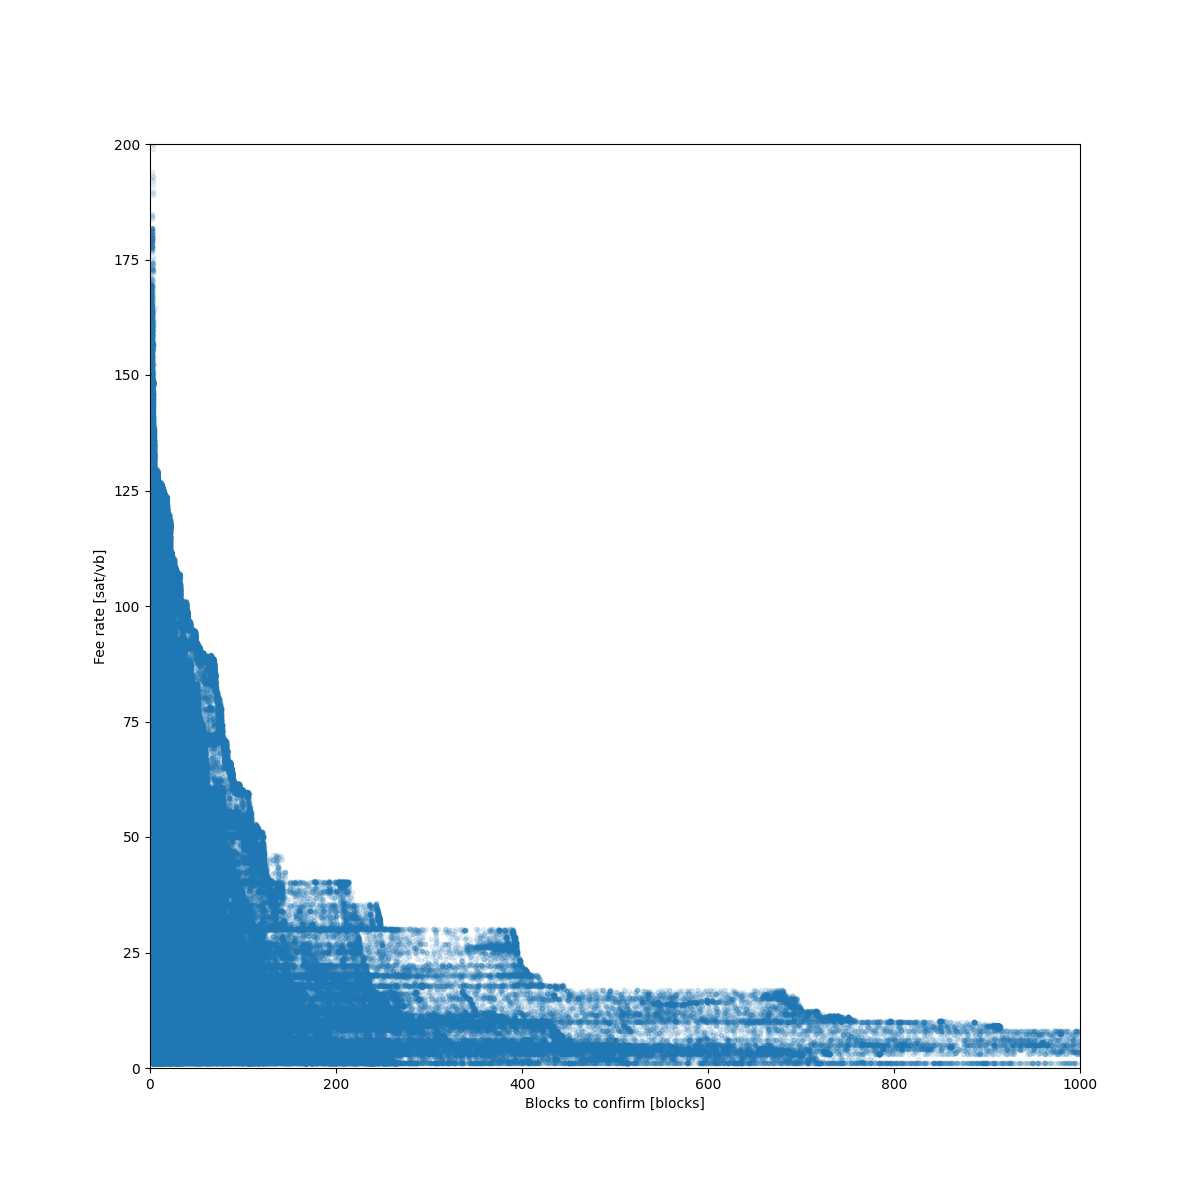
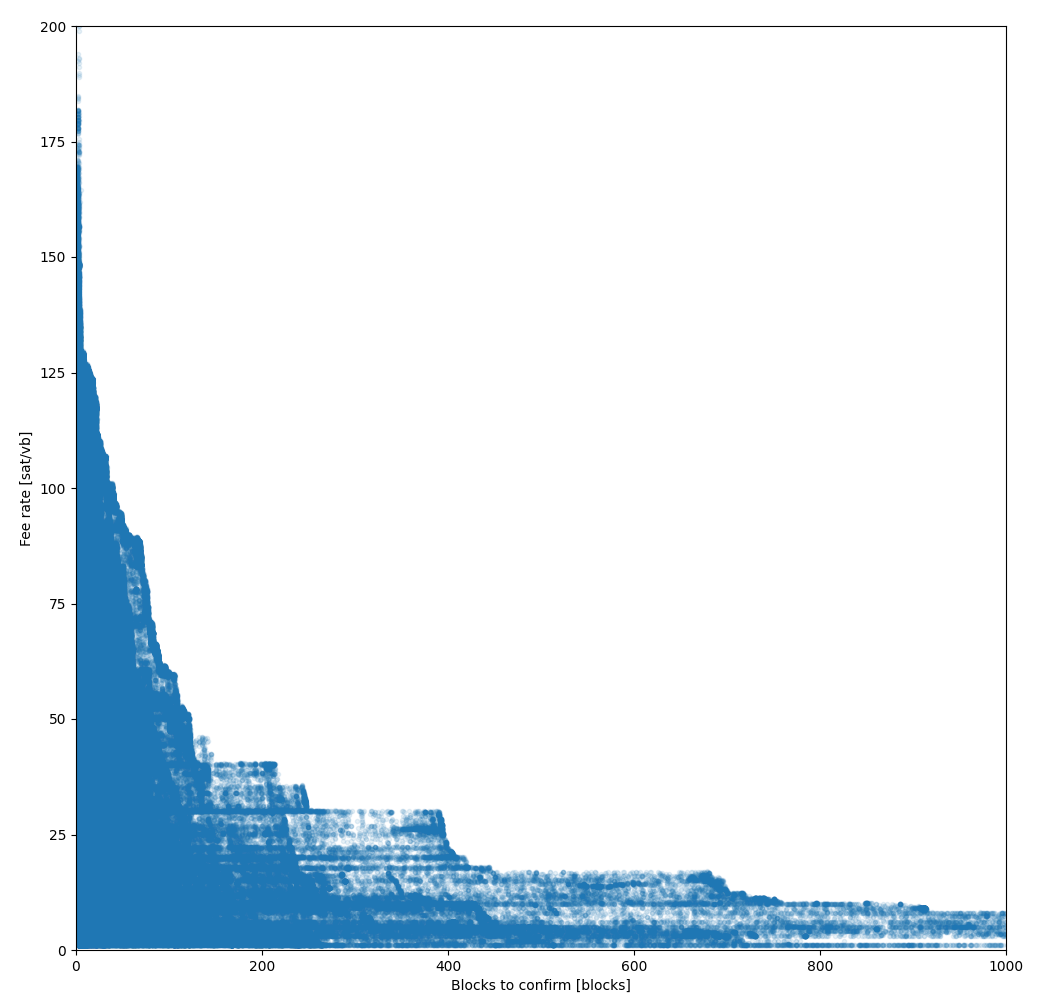
update

Changed region(s): [[0.0, 0.0621, 0.979, 0.994], [0.0306, 0.0, 0.0612, 0.0311]]

diff --git a/content/blog/2021/fee_estimation_for_light_clients_part_3.md b/content/blog/2021/fee_estimation_for_light_clients_part_3.md
@@ -21,10 +21,10 @@ This post is part 2 of 3 of a series. ([Part 1], [Part 2])
 
 ## The model
 
-The code building and training the model with [tensorflow] is available in [google colab notebook] (jupyter notebook); you can also download the file as plain python and run it locally. About 30 minutes are needed to train the model, but it heavily depends on the hardware available.
+The code building and training the model with [tensorflow] is available in [google colab notebook] (jupyter notebook); you can also download the file as plain python and run it locally. At least 1 hour is needed to train the full model, but it heavily depends on the hardware available.
 
 ![graph confirm_in blocks vs fee_rate](/images/20210125-091313-confirms_in-fee_rate.png)
-<div align="center">Tired to read and want a short interesting evidence? In the last month a ~50 sat/vbyte transaction never took more than a day to confirm and a ~5 sat/vbyte never took more than a week</div><br/>
+<div align="center">Do you want to choose the fee without a model? In the last 5 weeks a ~50 sat/vbyte transaction never took more than a day to confirm and a ~10 sat/vbyte never took more than a week</div><br/>
 
 As a reference, in the code we have a calculation of the bitcoin core `estimatesmartfee` MAE[^MAE] and drift[^drift].
 MAE is computed as `avg(abs(fee_rate - core_econ))` when `core_econ` is available (about 1.2M observations, sometime the value is not available when considered too old).
@@ -45,7 +45,7 @@ The dataset is splitted in training and test data with a 80/20 proportion. As th
 
 During the training the data is splitted again in 80/20 for training and validation respectively, validation is basically testing during training.
 
-During splitting dataset is converted from a pandas data frame to tensorflow dataset, decreasing training times.
+During splitting, the dataset is converted from a pandas data frame to tensorflow dataset, decreasing training times.
 
 #### Preprocessing
 
@@ -88,7 +88,7 @@ Non-trainable params comes from the normalization layer and are computed in the 
 + (64 input_values_weights + 1 bias) * (64 second layer neurons)
 + (64 input values weights + 1 bias)
 
-49*64+65*64+ = 7361
+49*64+65*64+65 = 7361
 ```
 
 Honestly, neural network parameters are mostly the one taken from this tensorflow [example], we even tried to [tune hyperparameters], however, we decided to follow this [advice]: *"The simplest way to prevent overfitting is to start with a small model:"*. We hope this work will attract other data scientists to this bitcoin problem, improving the model. We also think that a longer time for the data collection is needed to capture various situations.
@@ -135,9 +135,9 @@ Epoch 158/200
 
 Training is done in epochs, under every epoch all the training data is iterated and model parameters updated to minimize the loss function.
 
-The number `5617` represent the number of steps. Theoretically the whole training data should be processed at once and parameters updated accordingly, however in practice this is infeasible for example for memory resource, thus the training happens in batch. In our case we have `1,437,841` observations in the training set and our batch size is `256`, thus we have `1,437,841/256=5616.56` which by excess result in `5617` steps.
+The number `7559` represent the number of steps. Theoretically the whole training data should be processed at once and parameters updated accordingly, however in practice this is infeasible for example for memory resource, thus the training happens in batch. In our case we have `1,934,999` observations in the training set and our batch size is `256`, thus we have `1,437,841/256=7,558.58` which by excess result in `7559` steps.
 
-The `40s` is the time it takes to process the epoch on google colab (my threadripper cpu takes `20s`, but GPU or TPU could do better).
+The `~31s` is the time it takes to process the epoch on a threadripper CPU but GPU or TPU could do better.
 
 The value `loss` is the MSE on the training data while `val_loss` is the MSE value on the validation data. As far as we understand the separated validation data helps to detect the machine learning enemy, overfitting. Because in case of overfitting the value `loss` continue to improve (almost indefinitely) while `val_loss` start improving with the loss but a certain point diverge, indicating the network is memorizing the training data to improve `loss` but in doing so losing generalizing capabilities.
 
@@ -145,14 +145,14 @@ Our model doesn't look to suffer overfitting cause `loss` and `val_loss` doesn't
 
 ![train history](/images/20210125-091313-train-history.png)
 
-While we told the training to do 200 epochs, the training stopped at 198 because we added an `early_stop` call back with `20` as  `PATIENCE`, meaning that after 20 epoch and no improvement in `val_loss` the training is halted, saving time and potentially avoiding overfitting.
+While we told the training to do 200 epochs, the training stopped at 158 because we added an `early_stop` call back with `20` as  `PATIENCE`, meaning that after 20 epoch and no improvement in `val_loss` the training is halted, saving time and potentially avoiding overfitting.
 
 ## The prediction phase
 
 A [prediction test tool] is available on github. At the moment it uses a bitcoin core node to provide network data for simplicity, but it queries it only for the mempool and the last 6 blocks, so it's something that also a light-client could do.
 
 The following chart is probably the best visualization to evaluate the model, on the x axis there is the real fee rate while on the y axis there is the prediction, the more the points are centered on the bisection, the more the model is good.
-We can see the model is doing quite well, the MAE is 8 which is way lower than `estimatesmartfee`. However, there are big errors some times, in particular for prediction for low blocks target as shown by the orange points. Creating a model only for blocks target greater than 2 instead of simply remove some observations may be an option.
+We can see the model is doing quite well, the MAE is 8 which is way lower than `estimatesmartfee`. However, there are big errors some times, in particular for prediction for fast confirmation (`confirms_in=1 or confirms_in=2`) as shown by the orange points. Creating a model only for blocks target greater than 2 instead of simply remove some observations may be an option.
 
 ![prediction results](/images/20210125-091313-true-and-predictions.png)
 
@@ -168,23 +168,21 @@ This is just a starting point, there are many future improvements such as:
 
 * Build a separate model with full knowledge, thus for full, always-connected nodes could be interesting and improve network resource allocation with respect to current estimators.
 * Tensorflow is a huge dependency, and since it contains all the feature to build and train a model, most of the feature are not needed in the prediction phase. In fact tensorflow lite exists which is specifically created for embedded and mobile devices; the [prediction test tool] and the final integration in [bdk] should use it.
-* There are other fields that should be explored that could improve model predictions, such as transaction weight, time from last block and many others. Luckily the architecture of the logger allows the generation of the dataset from the raw logs very quickly. Also some fields like `confirms_in` are so important that the model could benefit from expansion during pre-processing with technique such as [hashed feature columns].
-* Bitcoin logger could be improved by a merge command to unify raw logs files, reducing redundancy and consequently disk occupation. Other than CSV the dataset could be created in multiple files in [TFRecord format] to allow more parallelism during training.
-* At the moment we are training the model on a threadripper CPU, training the code on GPU or even TPU will be needed to decrease training time, especially because input data will grow and capture more mempool situations.
+* Explore other fields to improve model predictions such as:
+  * A bucket array of the transactions in the last 6 blocks with known fee rates. This should in particular help estimations with almost empty mempool.
+  * Transaction weight
+  * Time from last block
+* Some fields are very important and could benefit from pre-processing expansion, for instance applying [hashed feature columns] to `confirms_in`.
+* Bitcoin logger could be improved by a merge command to unify raw logs files, reducing redundancy and consequently disk occupation.
+* The dataset could be created in multiple files to allow more parallelism and use less memory during training.
+* Saving the dataset in [TFRecord format] instead of CSV
+* At the moment we are training the model on a threadripper CPU, training the code on GPU or even TPU will be needed to decrease training time, especially because input data will grow.
 * The [prediction test tool] should estimate only using the p2p bitcoin network, without requiring a node. This work would be propedeutic for [bdk] integration
 * At the moment mempool buckets are multiple inputs `a*` as show in the model graph; since they are related, is it possible to merge them in one TensorArray?
 * Sometimes the model does not learn and [gets stuck]. It may depend on a particular configuration of the weight random initialization and the first derivative being zero for relu for negative number. If this is the case Leaky relu should solve the problem
 * There are issues regarding dead neurons (going to 0) or neurons with big weight, weight results should be monitored for this events, and also weight decay and L2 regularization should be explored.
 * Tune hyper-parameters technique should be re-tested.
-* Predictions should be monotonic decreasing for growing `confirms_in` parameter; for obvious reason it doesn't make sense that an higher fee rate will result in a higher confirmation time. Since this is not enforced anywhere in the model, situation like this could happen and should be avoided.
-```
-[2021-01-18T09:31:30Z INFO  estimate_ml_fee] Estimated fee to enter in 1 blocks is 47.151127 sat/vbyte
-[2021-01-18T09:31:30Z INFO  estimate_ml_fee] Estimated fee to enter in 6 blocks is 1.0932393 sat/vbyte
-[2021-01-18T09:31:30Z INFO  estimate_ml_fee] Estimated fee to enter in 36 blocks is 4.499987 sat/vbyte
-[2021-01-18T09:31:30Z INFO  estimate_ml_fee] Estimated fee to enter in 72 blocks is 12.659084 sat/vbyte
-[2021-01-18T09:31:30Z INFO  estimate_ml_fee] Estimated fee to enter in 144 blocks is 9.928209 sat/vbyte
-[2021-01-18T09:31:30Z INFO  estimate_ml_fee] Estimated fee to enter in 432 blocks is 6.9069905 sat/vbyte
-```
+* Predictions should be monotonic decreasing for growing `confirms_in` parameter; for obvious reason it doesn't make sense that an higher fee rate will result in a higher confirmation time. But since this is not enforced anywhere in the model, at the moment this could happen.
 
 ## Acknowledgements
 
@@ -196,28 +194,13 @@ And also this tweet that remembered me [I] had this work in my TODO list
 
 This is the final part of the series. In the previous [Part 1] we talked about the problem and in [Part 3] we talked about the dataset.
 
-[^fee rate]: The transaction fee rate is the ratio between the absolute fee expressed in satoshi, over the weight of the transaction measured in virtual bytes. The weight of the transaction is similar to the byte size, however a part of the transaction (the segwit part) is discounted, their byte size is considered less because it creates less burden for the network.
-[^mempool]: mempool is the set of transactions that are valid by consensus rules (for example, they are spending existing bitcoin), broadcasted in the bitcoin peer to peer network, but they are not yet part of the blockchain.
-[^temporal locality]: In computer science temporal locality refers to the tendency to access recent data more often than older data.
-[^disclaimer]: DISCLAIMER: I am not an expert data-scientist!
 [^MAE]: MAE is Mean Absolute Error, which is the average of the series built by the absolute difference between the real value and the estimation.
 [^drift]: drift like MAE, but without the absolute value
 [^minimum relay fee]: Most node won't relay transactions with fee lower than the min relay fee, which has a default of `1.0`
-[^blocks target]: Conceptually similar to bitcoin core `estimatesmartfee` parameter called "blocks target", however, `confirms_in` is the real value not the desired target.
-
 
 [Part 1]: /blog/2021/01/fee-estimation-for-light-clients-part-1/
 [Part 2]: /blog/2021/01/fee-estimation-for-light-clients-part-2/
 [Part 3]: /blog/2021/01/fee-estimation-for-light-clients-part-3/
-[`estimatesmartfee`]: https://bitcoincore.org/en/doc/0.20.0/rpc/util/estimatesmartfee/
-[core]: https://bitcoincore.org/
-[bitmex withdrawals]: https://b10c.me/mempool-observations/2-bitmex-broadcast-13-utc/
-[fee estimators]: https://b10c.me/blog/003-a-list-of-public-bitcoin-feerate-estimation-apis/
-[neutrino]: https://github.com/bitcoin/bips/blob/master/bip-0157.mediawiki
-[weekend]: https://www.blockchainresearchlab.org/2020/03/30/a-week-with-bitcoin-transaction-timing-and-transaction-fees/
-[ZMQ]: https://github.com/bitcoin/bitcoin/blob/master/doc/zmq.md
-[data logger]: https://github.com/RCasatta/bitcoin_logger
-[this one]: https://blockstream.info/tx/33291156ab79e9b4a1019b618b0acfa18cbdf8fa6b71c43a9eed62a849b86f9a
 [google colab notebook]: https://colab.research.google.com/drive/1yamwh8nE4NhmGButep-pfUT-1uRKs49a?usp=sharing
 [example]: https://www.tensorflow.org/tutorials/keras/regression
 [tune hyperparameters]: https://www.tensorflow.org/tutorials/keras/keras_tuner

diff --git a/content/blog/2021/fee_estimation_for_light_clients_part_2.md b/content/blog/2021/fee_estimation_for_light_clients_part_2.md
@@ -43,15 +43,16 @@ To overcome this, the transaction contained in the mempool are grouped in "bucke
 *number* of transaction in every *bucket*, not which transactions it contains.
 
 The mempool buckets array is defined by two parameters, the `percentage_increment` and the `array_max` value.
-Supposing to choose the mempool buckets array to have parameters `percentage_increment = 50%` and `array_max = 500.0 sat/vbytes` the buckets would be constructed like so:
+Starting from the minimum fee rate value `min_relay_fee=1.0`, the `ith` element is: `a_i=min_relay_fee * (1+percentage_increment)^(i+1)`
+
+For instance, choosing the mempool buckets array to have parameters `percentage_increment = 50%` and `array_max = 500.0 sat/vbytes` the buckets would be constructed like so:
 
 bucket | bucket min fee rate | bucket max fee rate
 -|-|-
-a0| 1.0 = `min_relay_fee` | 1.5 = min*(1+`percentage_increment`)
-a1| 1.5 = previous max | 2.25
-a2| 2.25 | 3.375
-ai| ... | `min_relay_fee` * (1+`percentage_increment`)^(i+1)
-a15| 437.89 | inf
+a_0| 1.0 | 1.5
+a_1| 1.5 | 2.25
+a_2| 2.25 | 3.375
+a_15| 437.89 | inf
 
 The array stops at `a15` because `a16` would have a bucket min greater than `array_max`.
 
@@ -65,7 +66,7 @@ The blocks are available through the p2p network, and downloading the last 6 is 
 The dataset also contains the block percentile fee rate `q_k`, considering `r_i` to be the rate of the `ith` transaction in a block, `q_k` is the fee rate value such that for each transaction in a block `r_i` < `q_k` returns the `k%` transactions in the block that are paying lower fees.
 
 Percentiles are not used to feed the model but to filter some outliers tx.
-Removing this observations is controversial at best and considered cheating at worse. However, it should be considered that Bitcoin Core `estimatesmartfee` doesn't even bother to give estimation for the next block, we think this is due to the fact that many transactions that are confirming in the next block are huge overestimation [^overestimation], or clearly errors like [this one] we found when we started logging data.
+Removing this observations is controversial at best and considered cheating at worse. However, it should be considered that Bitcoin Core `estimatesmartfee` doesn't even bother to give estimation for the next block, we think this is due to the fact that many transactions that are confirming in the next block are huge overestimation, or clearly errors like [this one] we found when we started logging data.
 These outliers are several for transactions confirming in the next block (`confirms_in=1`), less so for `confirms_in=2`, mostly disappeared for `confirms_in=3` or more. It's counterintuitive that overestimation exists for `confirms_in>1`, by definition an overestimation is a fee rate way higher than needed, so how is possible that an overestimation doesn't enter the very next block? There are a couple of reasons why a block is discovered without containing a transaction with high fee rate:
 * network latency: my node saw the transaction but the miner didn't see that transaction yet,
 * block building latency: the miner saw the transaction, but didn't finish to rebuild the block template or decided it's more efficient to finish a cycle on the older block template.
@@ -110,45 +111,12 @@ In the previous [Part 1] we talked about the problem.
 
 In the following [Part 3] we are going to talk about the model.
 
-[^fee rate]: The transaction fee rate is the ratio between the absolute fee expressed in satoshi, over the weight of the transaction measured in virtual bytes. The weight of the transaction is similar to the byte size, however a part of the transaction (the segwit part) is discounted, their byte size is considered less because it creates less burden for the network.
-[^mempool]: mempool is the set of transactions that are valid by consensus rules (for example, they are spending existing bitcoin), broadcasted in the bitcoin peer to peer network, but they are not yet part of the blockchain.
 [^temporal locality]: In computer science temporal locality refers to the tendency to access recent data more often than older data.
-[^disclaimer]: DISCLAIMER: I am not an expert data-scientist!
-[^MAE]: MAE is Mean Absolute Error, which is the average of the series built by the absolute difference between the real value and the estimation.
-[^drift]: drift like MAE, but without the absolute value
-[^minimum relay fee]: Most node won't relay transactions with fee lower than the min relay fee, which has a default of `1.0`
-[^blocks target]: Conceptually similar to Bitcoin Core `estimatesmartfee` parameter called "blocks target", however, `confirms_in` is the real value not the desired target.
 
 [Part 1]: /blog/2021/01/fee-estimation-for-light-clients-part-1/
 [Part 2]: /blog/2021/01/fee-estimation-for-light-clients-part-2/
 [Part 3]: /blog/2021/01/fee-estimation-for-light-clients-part-3/
-[`estimatesmartfee`]: https://bitcoincore.org/en/doc/0.20.0/rpc/util/estimatesmartfee/
-[core]: https://bitcoincore.org/
-[bitmex withdrawals]: https://b10c.me/mempool-observations/2-bitmex-broadcast-13-utc/
-[fee estimators]: https://b10c.me/blog/003-a-list-of-public-bitcoin-feerate-estimation-apis/
 [neutrino]: https://github.com/bitcoin/bips/blob/master/bip-0157.mediawiki
-[weekend]: https://www.blockchainresearchlab.org/2020/03/30/a-week-with-bitcoin-transaction-timing-and-transaction-fees/
-[ZMQ]: https://github.com/bitcoin/bitcoin/blob/master/doc/zmq.md
 [data logger]: https://github.com/RCasatta/bitcoin_logger
 [this one]: https://blockstream.info/tx/33291156ab79e9b4a1019b618b0acfa18cbdf8fa6b71c43a9eed62a849b86f9a
 [dataset]: https://storage.googleapis.com/bitcoin_log/dataset_18.csv.gz
-[google colab notebook]: https://colab.research.google.com/drive/1yamwh8nE4NhmGButep-pfUT-1uRKs49a?usp=sharing
-[example]: https://www.tensorflow.org/tutorials/keras/regression
-[tune hyperparameters]: https://www.tensorflow.org/tutorials/keras/keras_tuner
-[advice]: https://www.tensorflow.org/tutorials/keras/overfit_and_underfit#demonstrate_overfitting
-[introducing neural network video]: https://youtu.be/aircAruvnKk?t=1035
-[gradient descent]: https://en.wikipedia.org/wiki/Gradient_descent#:~:text=Gradient%20descent%20is%20a%20first,the%20direction%20of%20steepest%20descent.
-[latest trend]: https://towardsdatascience.com/adam-latest-trends-in-deep-learning-optimization-6be9a291375c
-[exponential decay]: https://www.tensorflow.org/api_docs/python/tf/compat/v1/train/exponential_decay
-[prediction test tool]: https://github.com/RCasatta/estimate_ml_fee
-[bdk]: https://github.com/bitcoindevkit/bdk
-[Square crypto]: https://squarecrypto.org/
-[get stuck]: https://github.com/RCasatta/bitcoin_logger/blob/master/notes.md
-[hashed feature columns]: https://www.tensorflow.org/tutorials/structured_data/feature_columns#hashed_feature_columns
-[tensorflow]: https://www.tensorflow.org/
-[TFRecord format]: https://www.tensorflow.org/tutorials/load_data/tfrecord
-[Leonardo Comandini]: https://twitter.com/LeoComandini
-[Domenico Gabriele]: https://twitter.com/domegabri
-[Alekos Filini]: https://twitter.com/afilini
-[Ferdinando Ametrano]: https://twitter.com/Ferdinando1970
-[I]: https://twitter.com/RCasatta
